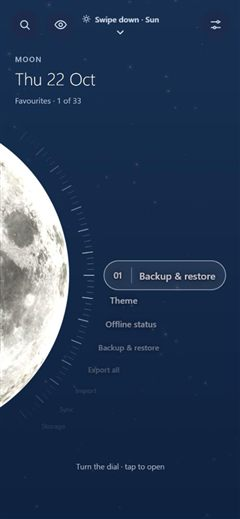
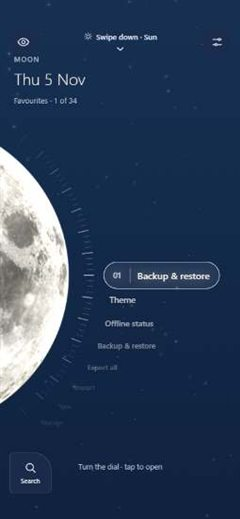
Sun Launcher v108: Clock screen back, Glow arc stays out

diff --git a/index.html b/index.html
@@ -1145,6 +1145,7 @@ label[for="photo-stars"] { background-image: url("sky-night.jpg"); }
           <input type="radio" name="sunView" id="sv-ring" value="ring"><label for="sv-ring">Sun ring</label>
           <input type="radio" name="sunView" id="sv-today" value="today"><label for="sv-today">Real sun today</label>
           <input type="radio" name="sunView" id="sv-minimal" value="minimal"><label for="sv-minimal">Minimal sun</label>
+          <input type="radio" name="sunView" id="sv-clock" value="clock"><label for="sv-clock">Clock dial</label>
         </div>
         <div class="sublg">Sun by a list (was Swap)</div>
         <div class="seg">
@@ -1210,6 +1211,7 @@ label[for="photo-stars"] { background-image: url("sky-night.jpg"); }
           <div class="seg">
             <input type="radio" name="moonLook" id="moon-phase" value="phase"><label for="moon-phase">Real moon phase</label>
             <input type="radio" name="moonLook" id="moon-minimal" value="minimal"><label for="moon-minimal">Minimal moon</label>
+            <input type="radio" name="moonLook" id="moon-dial" value="dial"><label for="moon-dial">Clock dial</label>
             <input type="radio" name="moonLook" id="moon-moondial" value="moondial"><label for="moon-moondial">Moon dial</label>
             <input type="radio" name="moonLook" id="moon-dial3d" value="dial3d"><label for="moon-dial3d">Moon 3D dial</label>
           </div>
@@ -1438,7 +1440,7 @@ label[for="photo-stars"] { background-image: url("sky-night.jpg"); }
 (function () {
   'use strict';
   const $ = (id) => document.getElementById(id);
-  const APP_VERSION = 'v107';  // v61: shown in Updates and About (sw.js CACHE has the same number)
+  const APP_VERSION = 'v108';  // v61: shown in Updates and About (sw.js CACHE has the same number)
   const setText = (id, t) => { const el = $(id); if (el.textContent !== t) el.textContent = t; };  // v59
   let reduce = false;
   try { reduce = window.matchMedia('(prefers-reduced-motion: reduce)').matches; } catch (e) {}
@@ -1578,10 +1580,9 @@ label[for="photo-stars"] { background-image: url("sky-night.jpg"); }
   if (S.moonLook === 'orb') S.moonLook = 'small';
   if (['real', 'disco', 'dandelion', 'eclipse', 'flames', 'neon', 'synth'].indexOf(S.moonModel) === -1) S.moonModel = 'real';  // v100
   if (S.dailyModel !== 'on') S.dailyModel = 'off';  // v102
-  // v107 (user): every Sun screen has its one Moon screen, and Clock and Glow arc are gone
-  if (S.sunView === 'clock') S.sunView = 'dial';
+  // v107 (user): every Sun screen has its one Moon screen, and Glow arc is gone
   if (S.sunView === 'arc') S.sunView = 'edge';
-  S.moonLook = { dial: 'dial3d', ring: 'moondial', today: 'phase', minimal: 'minimal', edge: 'dots', crescent: 'crescent', small: 'small' }[S.sunView] || 'dial3d';
+  S.moonLook = { dial: 'dial3d', ring: 'moondial', clock: 'dial', today: 'phase', minimal: 'minimal', edge: 'dots', crescent: 'crescent', small: 'small' }[S.sunView] || 'dial3d';
   S.pairLink = 'on';
   if (S.sunView === 'small' && S.moonLook === 'crescent' && S.pairLink !== 'off') S.moonLook = 'small';  // v98: Small was wrongly paired with the big moon
   if (S.sunList === 'orb') S.sunList = 'small';
@@ -7587,7 +7588,7 @@ label[for="photo-stars"] { background-image: url("sky-night.jpg"); }
   try { if (navigator.storage && navigator.storage.persisted) navigator.storage.persisted().then((p) => p || !navigator.storage.persist ? p : navigator.storage.persist()).then((p) => { storageKept = !!p; }).catch(() => {}); } catch (e) {}
   function mb(b) { return (b / 1048576).toFixed(b < 10485760 ? 1 : 0) + ' MB'; }
   function sheetInfo(title, text, actions) { openSheet(title, text, '', false, actions); $('sheetText').style.whiteSpace = 'pre-line'; }
-  const NEWS = 'v107 · A simpler Settings: pick a Model and a Screen, and each is always a matching sun and moon. New Flames, Neon and Synthwave moons. A stem on the sunflower. The eye stays in one place. Vinyl, Clock and Glow arc are gone. v106 · The Pixel model is gone. v104 · The dandelion is always whole, with no shadow, and it has a real stem now. v102 · Planets pass on the strong hits of the music. A new model every day if you like, with Another one to change it. The moon models show the real shadow of the Moon. Disco ball: real light over your own sky. v101 · A more detailed Disco ball: every mirror reflects the lights. v100 · Five new sun and moon models: Vinyl, Disco ball, Sunflower and dandelion, Black hole and eclipse. They work on every screen. v99 · The flight keeps one speed, as long as your sound, with a rock shower near the start and the Moon rushing past before the landing. v98 · Every sun style now works on every screen. A new big Crescent sun, and Small is small on both screens. The eye slides along a yellow frame. The date stays clear of the sun and moon. The Clouds sky is gone. A cleaner icon. v97 · New Settings: the same pictures to pick your look, now with the sky too; everything else in clear coloured groups. v96 · Real clouds on the Earth: yesterday\'s from NASA\'s satellite. v95 · Opens faster, with no freeze when the sharp Earth arrives. The flight keeps the pictures of your city on the phone, so it works offline. One tap on the empty sky shows tonight. New in Settings: Sky alerts. v94 · The hidden flight is a real 3D scene with one fluid motion: planets leave by going out of sight, real rocks in the belt, true sizes, and a much sharper ending over your city. Hold the eye on the Earth and drag it anywhere. Held sideways, the four chips sit in a neat block. v93 · The Moon is lit from the real direction of the Sun. New layout for a phone held sideways. v92 · A flick on the Sun ring no longer seems to spin backward. The map says the city (Vienna), not the district. My sound for the flight can be sharpened. v90 · My location stays fresh (at most 10 min old, with a second try by GPS). The hidden flight: truer sizes, a slow wide turn, an asteroid belt, a steady zoom into your city, your own sound if you like.\nv89 · Fix: no faint square around the sun. The hidden flight now feels like flying (gentle banking, a hard turn at the Sun).\nv88 · The hidden surprise flows more smoothly.\nv87 · A hidden surprise. Hint: the date has seven secrets.\nv86 · Tap the moon on the Earth: the Moon menu opens straight away (the moon chip still shows the moon card). The Moon ring turns the way you swipe.\nv85 · Battery: the moon and sun are drawn with far less work (the quiet Earth uses about half as much again). Nothing looks different.\nv84 · The quiet Earth (20 s after your last touch) is drawn 5 times a second: about half the battery, looks the same. A touch makes it smooth at once.\nv83 · Android app: Search finds every app on your phone (with nothing typed: recent apps, then all apps A-Z). As your home app, Home brings you back to the Earth. Uses much less battery while the Earth is quiet or the home pages are open.\nv82 · Android app: change your home pages. Hold an app to move, remove or put it in a folder; hold an empty place to add an app; hold a folder to rename it; hold the sky to add a row or a folder.\nv81 · Android app: Cards on your home page opens a card wallet (your Pictures › Cards folder): a grid, and a tapped card fills the screen at full brightness for scanning.\nv80 · Android app: real widgets on your home pages (music, weather, Google search, clock). Tap a widget place to pick one; tap again to change or remove it.\nv79 · Android app: your 2 home pages (apps, folders, Cards) on a starry sky. On the Earth, swipe sideways in the sky to reach them; the Earth itself still spins.\nv78 · Android app: add the apps on your phone to the Sun or the Moon (Edit dial › Add app › From my phone). The app can be your home screen (Settings › Apps › Default apps › Home app). Clock styles (Settings › Clock style: Thin, Bold, Analog, Glass, Soft). On the Earth, hold the time, the chips or the eye and drag it to a new place.\nv77 · Fixes: tapping the moon (or your city) on the Earth opens its card again on phones; Android app: no black bars at the top and bottom. The thin light line across the sun is gone.\nv76 · The screen picker at the bottom (‹ Dial › and dots) is off; turn it on in Settings › Change screen from the bottom. Android app: the sky fills the whole screen again, the buttons stay clear of the phone\'s bars.\nv75 · Fixes: clouds no longer have straight cut edges; the Edit app window is tidier (no words over boxes, all colours fit, empty quick actions hidden).\nv74 · Seasons (autumn leaves, snow, blossoms) are now off unless you turn them on in Settings › Seasons.\nv73 ·Fixes: the app list no longer covers the mini suns and moons on short screens; the note on the Earth moved to the bottom (it covered the moon); chips above the date now go to the very top, and the eye moves to the bottom-left there.\nv72 · Timer: Focus, Timer and Stopwatch in calm glass over the Earth. Open the Timer app; while it runs, a small chip under the time shows it.\nv71 · Calm glass menus: Settings, cards, Search and messages are now frosted see-through glass (darker by day; no blur with Effects = Calm). Search has a letter strip on the right.\nv70 · Tonight\'s sky: the planets you can see and the space station passes (notes on the Earth, Moon menu > Tonight\'s sky).\nv69 · The dial learns work days and weekends apart; Undo after Remove app; all apps A-Z in Search; saved data protected; 2 more meteor showers.\nv68 · Special sky days on the Earth: meteor showers, a copper moon eclipse, the supermoon, the sun eclipse, strong northern lights (NASA photo).\nv67 · Seasons: winter snow, spring blossoms and morning light, brighter summer Milky Way, autumn leaves (Settings > Seasons).\nv66 · Smart chips on the Earth: temperature, a note only when something matters, tap a chip for more; hold and drag the chips above the date.\nv65 · Tidy-up inside: the code is now in smaller files (nothing changes for you).\nv64 · Add your own apps: Edit dial > Add app. Edit or remove any app; quick actions with their own links.\nv63 · Fixes: text size, update note, offline pictures, moon times on clock-change days, safer backups.\nv62 · Turning Charging mode off or on works at once.\nv61 · The Moon menu works: text size, backup, storage, updates and more.\nv60 · "New version ready" note, sunset countdown, moon card on the Earth, bigger Search.\nv59 · Bug fixes, smoother motion, a lighter first install.\nv58 · The moon on the Earth rises and sets smoothly.\nv57 · Slider at the bottom to change the screen.\nv56 · 11 more sun colours.\nv55 · Eye top left, Search in the corner, Cancel in the look editor.';
+  const NEWS = 'v108 · A simpler Settings: pick a Model and a Screen, and each is always a matching sun and moon. New Flames, Neon and Synthwave moons. A stem on the sunflower. The eye stays in one place. Vinyl and Glow arc are gone. v106 · The Pixel model is gone. v104 · The dandelion is always whole, with no shadow, and it has a real stem now. v102 · Planets pass on the strong hits of the music. A new model every day if you like, with Another one to change it. The moon models show the real shadow of the Moon. Disco ball: real light over your own sky. v101 · A more detailed Disco ball: every mirror reflects the lights. v100 · Five new sun and moon models: Vinyl, Disco ball, Sunflower and dandelion, Black hole and eclipse. They work on every screen. v99 · The flight keeps one speed, as long as your sound, with a rock shower near the start and the Moon rushing past before the landing. v98 · Every sun style now works on every screen. A new big Crescent sun, and Small is small on both screens. The eye slides along a yellow frame. The date stays clear of the sun and moon. The Clouds sky is gone. A cleaner icon. v97 · New Settings: the same pictures to pick your look, now with the sky too; everything else in clear coloured groups. v96 · Real clouds on the Earth: yesterday\'s from NASA\'s satellite. v95 · Opens faster, with no freeze when the sharp Earth arrives. The flight keeps the pictures of your city on the phone, so it works offline. One tap on the empty sky shows tonight. New in Settings: Sky alerts. v94 · The hidden flight is a real 3D scene with one fluid motion: planets leave by going out of sight, real rocks in the belt, true sizes, and a much sharper ending over your city. Hold the eye on the Earth and drag it anywhere. Held sideways, the four chips sit in a neat block. v93 · The Moon is lit from the real direction of the Sun. New layout for a phone held sideways. v92 · A flick on the Sun ring no longer seems to spin backward. The map says the city (Vienna), not the district. My sound for the flight can be sharpened. v90 · My location stays fresh (at most 10 min old, with a second try by GPS). The hidden flight: truer sizes, a slow wide turn, an asteroid belt, a steady zoom into your city, your own sound if you like.\nv89 · Fix: no faint square around the sun. The hidden flight now feels like flying (gentle banking, a hard turn at the Sun).\nv88 · The hidden surprise flows more smoothly.\nv87 · A hidden surprise. Hint: the date has seven secrets.\nv86 · Tap the moon on the Earth: the Moon menu opens straight away (the moon chip still shows the moon card). The Moon ring turns the way you swipe.\nv85 · Battery: the moon and sun are drawn with far less work (the quiet Earth uses about half as much again). Nothing looks different.\nv84 · The quiet Earth (20 s after your last touch) is drawn 5 times a second: about half the battery, looks the same. A touch makes it smooth at once.\nv83 · Android app: Search finds every app on your phone (with nothing typed: recent apps, then all apps A-Z). As your home app, Home brings you back to the Earth. Uses much less battery while the Earth is quiet or the home pages are open.\nv82 · Android app: change your home pages. Hold an app to move, remove or put it in a folder; hold an empty place to add an app; hold a folder to rename it; hold the sky to add a row or a folder.\nv81 · Android app: Cards on your home page opens a card wallet (your Pictures › Cards folder): a grid, and a tapped card fills the screen at full brightness for scanning.\nv80 · Android app: real widgets on your home pages (music, weather, Google search, clock). Tap a widget place to pick one; tap again to change or remove it.\nv79 · Android app: your 2 home pages (apps, folders, Cards) on a starry sky. On the Earth, swipe sideways in the sky to reach them; the Earth itself still spins.\nv78 · Android app: add the apps on your phone to the Sun or the Moon (Edit dial › Add app › From my phone). The app can be your home screen (Settings › Apps › Default apps › Home app). Clock styles (Settings › Clock style: Thin, Bold, Analog, Glass, Soft). On the Earth, hold the time, the chips or the eye and drag it to a new place.\nv77 · Fixes: tapping the moon (or your city) on the Earth opens its card again on phones; Android app: no black bars at the top and bottom. The thin light line across the sun is gone.\nv76 · The screen picker at the bottom (‹ Dial › and dots) is off; turn it on in Settings › Change screen from the bottom. Android app: the sky fills the whole screen again, the buttons stay clear of the phone\'s bars.\nv75 · Fixes: clouds no longer have straight cut edges; the Edit app window is tidier (no words over boxes, all colours fit, empty quick actions hidden).\nv74 · Seasons (autumn leaves, snow, blossoms) are now off unless you turn them on in Settings › Seasons.\nv73 ·Fixes: the app list no longer covers the mini suns and moons on short screens; the note on the Earth moved to the bottom (it covered the moon); chips above the date now go to the very top, and the eye moves to the bottom-left there.\nv72 · Timer: Focus, Timer and Stopwatch in calm glass over the Earth. Open the Timer app; while it runs, a small chip under the time shows it.\nv71 · Calm glass menus: Settings, cards, Search and messages are now frosted see-through glass (darker by day; no blur with Effects = Calm). Search has a letter strip on the right.\nv70 · Tonight\'s sky: the planets you can see and the space station passes (notes on the Earth, Moon menu > Tonight\'s sky).\nv69 · The dial learns work days and weekends apart; Undo after Remove app; all apps A-Z in Search; saved data protected; 2 more meteor showers.\nv68 · Special sky days on the Earth: meteor showers, a copper moon eclipse, the supermoon, the sun eclipse, strong northern lights (NASA photo).\nv67 · Seasons: winter snow, spring blossoms and morning light, brighter summer Milky Way, autumn leaves (Settings > Seasons).\nv66 · Smart chips on the Earth: temperature, a note only when something matters, tap a chip for more; hold and drag the chips above the date.\nv65 · Tidy-up inside: the code is now in smaller files (nothing changes for you).\nv64 · Add your own apps: Edit dial > Add app. Edit or remove any app; quick actions with their own links.\nv63 · Fixes: text size, update note, offline pictures, moon times on clock-change days, safer backups.\nv62 · Turning Charging mode off or on works at once.\nv61 · The Moon menu works: text size, backup, storage, updates and more.\nv60 · "New version ready" note, sunset countdown, moon card on the Earth, bigger Search.\nv59 · Bug fixes, smoother motion, a lighter first install.\nv58 · The moon on the Earth rises and sets smoothly.\nv57 · Slider at the bottom to change the screen.\nv56 · 11 more sun colours.\nv55 · Eye top left, Search in the corner, Cancel in the look editor.';
   const FUNC_RUN = {
     // Look
     'Theme': () => openSettingsAt('Look follows the time of day'),
@@ -8131,7 +8132,7 @@ label[for="photo-stars"] { background-image: url("sky-night.jpg"); }
   // one tap sets both; off: the Sun screen and Moon style lists pick each screen on its own.
   const PAIRS = [['dial', 'Dial', 'dial', 'dial3d', 'normal'], ['ring', 'Ring', 'ring', 'moondial', 'normal'], ['dots', 'Dots', 'edge', 'dots', 'normal'],
     ['crescent', 'Crescent', 'crescent', 'crescent', 'normal'],
-    ['today', 'Today', 'today', 'phase', 'extra'], ['minimal', 'Minimal', 'minimal', 'minimal', 'extra'],
+    ['today', 'Today', 'today', 'phase', 'extra'], ['minimal', 'Minimal', 'minimal', 'minimal', 'extra'], ['clock', 'Clock', 'clock', 'dial', 'extra'],
     ['small', 'Small', 'small', 'small', 'extra']
     // v39: Glow orb pair removed (user): ['orb', 'Glow orb', 'orb', 'orb', 'extra']
     // Rings pair (Ringed sun + Saturn rings) taken out for now (user, v35: "add it later"): ['rings', 'Rings', 'rings', 'saturn', 'planets']
@@ -8162,10 +8163,10 @@ label[for="photo-stars"] { background-image: url("sky-night.jpg"); }
   // v48: Settings pictures. Cards = groups of the screen pairs; rows = the kinds of the picked card, the moon screens
   // (when "Same style" is off) and the sun styles. Each picture taps the matching old radio (hidden in #oldPickers).
   // v107 (user: categories easier to identify): one plain list of screens; each is one Sun screen and its Moon screen
-  const PV_SCREENS = [['dial', 'dial3d', 'Dial'], ['ring', 'moondial', 'Ring'], ['today', 'phase', 'Today'], ['minimal', 'minimal', 'Minimal'], ['edge', 'dots', 'Big edge'], ['crescent', 'crescent', 'Crescent'], ['small', 'small', 'Small']];
+  const PV_SCREENS = [['dial', 'dial3d', 'Dial'], ['ring', 'moondial', 'Ring'], ['clock', 'dial', 'Clock'], ['today', 'phase', 'Today'], ['minimal', 'minimal', 'Minimal'], ['edge', 'dots', 'Big edge'], ['crescent', 'crescent', 'Crescent'], ['small', 'small', 'Small']];
   const PV_MODELS = [['glow', 'real', 'Glow'], ['corona', 'real', 'Corona'], ['flames', 'flames', 'Flames'], ['blackhole', 'eclipse', 'Black hole'], ['neon', 'neon', 'Neon'], ['synth', 'synth', 'Synthwave'], ['disco', 'disco', 'Disco ball'], ['flower', 'dandelion', 'Sunflower']];
   const PV_FAM = [['all', 'Screens', '', PV_SCREENS.map((x) => x[0])]];
-  const PV_NAME = { dial: 'Dial', ring: 'Ring', today: 'Today', minimal: 'Minimal', edge: 'Big edge', crescent: 'Crescent', small: 'Small' };
+  const PV_NAME = { dial: 'Dial', ring: 'Ring', clock: 'Clock', today: 'Today', minimal: 'Minimal', edge: 'Big edge', crescent: 'Crescent', small: 'Small' };
   const PV_MOON = PV_SCREENS.map((x) => [x[1], x[2]]);
   const PV_STY = [['glow', 'Glow'], ['corona', 'Corona'], ['flames', 'Flames'], ['blackhole', 'Black hole'], ['neon', 'Neon'], ['synth', 'Synthwave'], ['disco', 'Disco ball'], ['flower', 'Sunflower']];
   const PV_MODEL = [['real', 'Real moon'], ['flames', 'Flames'], ['neon', 'Neon'], ['synth', 'Synthwave'], ['disco', 'Disco ball'], ['dandelion', 'Dandelion'], ['eclipse', 'Eclipse']];

diff --git a/sw.js b/sw.js
@@ -2,7 +2,7 @@
 // because Docs Reader and Scanner share this web address (harisonbd.github.io).
 // v42: two caches. CACHE (app code, new each version, ~0.3 MB) and MEDIA (photos and maps, kept across
 // versions so an update does not download them again). Change MEDIA only when a picture's content changes.
-const CACHE = 'sun-launcher-v107';
+const CACHE = 'sun-launcher-v108';
 const MEDIA = 'sun-launcher-media-1';
 const FILES = ['./', './index.html', './manifest.webmanifest', './icon-192.png', './icon-512.png', './icon-maskable-512.png'];
 const PICS = ['./tex-sun.jpg', './tex-moon.jpg', './sky-sunset.jpg', './sky-dawn.jpg', './sky-day.jpg', './sky-bluehour.jpg', './sky-night.jpg', './sky-overcast.jpg', './sky-rain.jpg', './sky-snow.jpg', './sky-snow-night.jpg', './sky-fog.jpg', './sky-storm.jpg', './saturn.jpg', './saturn-ring.png', './earth-day.jpg', './earth-night.jpg', './earth-clouds.jpg'];
